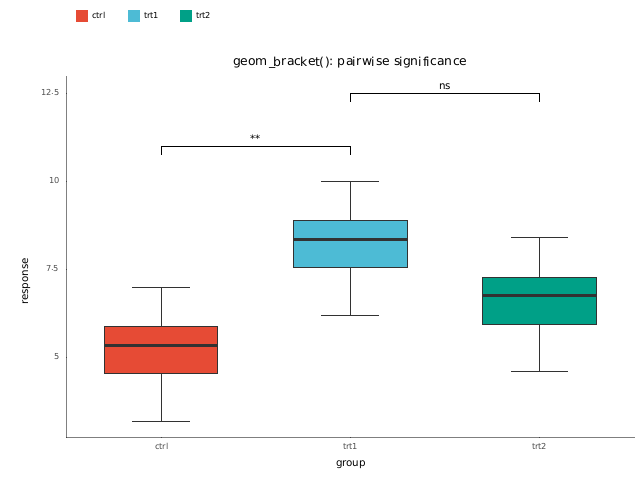
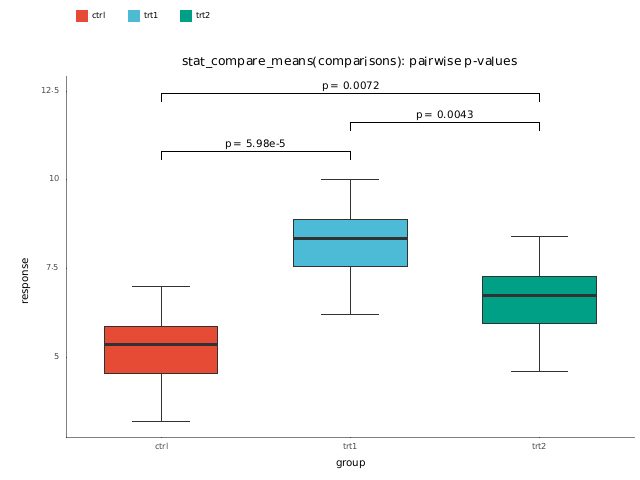
ggpubr: auto-pairwise brackets + PNG output for ggarrange
- stat_compare_means_pairwise(comparisons): for each (a, b) pair, run a
  two-sample test (Wilcoxon by default, or Welch t via _with) on the
  plot's y-values, format the p-value, and stack a labelled geom_bracket
  above the data. Reads the plot's x/y mapping + data; positions brackets
  automatically. Backed by anofox-statistics (pairwise_p helper).
- ggarrange_png / ggarrange_save_png: rasterise each plot (plotters bitmap)
  and composite into one PNG grid via the image crate — no external
  rasteriser needed (non-wasm).

Gallery now shows real pairwise p-values (brackets.png) and generates the
arrange grid as native PNG (arrange.png) directly.

diff --git a/src/plot.rs b/src/plot.rs
@@ -1,7 +1,7 @@
 #[cfg(not(target_arch = "wasm32"))]
 use plotters::prelude::IntoDrawingArea;
 
-use crate::aes::Aes;
+use crate::aes::{Aes, Aesthetic};
 use crate::annotate::Annotation;
 use crate::build::PlotBuilder;
 use crate::coord::cartesian::CoordCartesian;
@@ -247,6 +247,107 @@ impl GGPlot {
         stat: crate::stat::compare_means::StatCompareMeans,
     ) -> Self {
         self.geom_text().stat(stat)
+    }
+
+    /// Auto-draw pairwise significance brackets (`ggpubr::stat_compare_means`
+    /// with `comparisons`). For each `(group_a, group_b)` pair it runs a
+    /// two-sample test (Wilcoxon by default) on the plot's y-values, formats the
+    /// p-value, and stacks a labelled [`geom_bracket`](GGPlot::geom_bracket)
+    /// above the data. Uses the plot's x/y mapping and data.
+    #[cfg(feature = "ggpubr")]
+    pub fn stat_compare_means_pairwise(self, comparisons: &[(&str, &str)]) -> Self {
+        self.stat_compare_means_pairwise_with(
+            crate::stat::compare_means::CompareMethod::Auto,
+            comparisons,
+        )
+    }
+
+    /// [`stat_compare_means_pairwise`](GGPlot::stat_compare_means_pairwise) with
+    /// an explicit test method.
+    #[cfg(feature = "ggpubr")]
+    pub fn stat_compare_means_pairwise_with(
+        self,
+        method: crate::stat::compare_means::CompareMethod,
+        comparisons: &[(&str, &str)],
+    ) -> Self {
+        // Resolve the x/y source columns from the plot mapping + data.
+        let col_for = |a: Aesthetic| {
+            self.mapping
+                .mappings
+                .iter()
+                .find(|m| m.aesthetic == a)
+                .map(|m| m.column.clone())
+        };
+        let (xcol, ycol) = match (col_for(Aesthetic::X), col_for(Aesthetic::Y)) {
+            (Some(x), Some(y)) => (x, y),
+            _ => return self,
+        };
+        let (xc, yc) = match (self.data.column(&xcol), self.data.column(&ycol)) {
+            (Some(x), Some(y)) => (x, y),
+            _ => return self,
+        };
+
+        // Bucket y by x category (first-seen order) and find the data range.
+        let mut groups: Vec<(String, Vec<f64>)> = Vec::new();
+        let mut ymax = f64::NEG_INFINITY;
+        let mut ymin = f64::INFINITY;
+        for (xv, yv) in xc.iter().zip(yc.iter()) {
+            let y = match yv.as_f64() {
+                Some(y) if y.is_finite() => y,
+                _ => continue,
+            };
+            ymax = ymax.max(y);
+            ymin = ymin.min(y);
+            let key = xv.to_group_key();
+            if let Some(g) = groups.iter_mut().find(|(k, _)| *k == key) {
+                g.1.push(y);
+            } else {
+                groups.push((key, vec![y]));
+            }
+        }
+        if groups.len() < 2 {
+            return self;
+        }
+        let step = if ymax > ymin {
+            (ymax - ymin) * 0.12
+        } else {
+            1.0
+        };
+
+        // One stacked bracket per resolvable comparison.
+        let (mut xmin_v, mut xmax_v, mut y_v, mut label_v) =
+            (Vec::new(), Vec::new(), Vec::new(), Vec::new());
+        let mut placed = 0usize;
+        for (a, b) in comparisons {
+            let ga = groups.iter().find(|(k, _)| k == a).map(|g| &g.1);
+            let gb = groups.iter().find(|(k, _)| k == b).map(|g| &g.1);
+            let (ga, gb) = match (ga, gb) {
+                (Some(x), Some(y)) if x.len() >= 2 && y.len() >= 2 => (x, y),
+                _ => continue,
+            };
+            let p = match crate::stat::compare_means::pairwise_p(method, ga, gb) {
+                Some(p) => p,
+                None => continue,
+            };
+            xmin_v.push(Value::Str((*a).to_string()));
+            xmax_v.push(Value::Str((*b).to_string()));
+            y_v.push(Value::Float(ymax + step * (placed as f64 + 1.0)));
+            label_v.push(Value::Str(crate::stat::cor::format_p_value(p)));
+            placed += 1;
+        }
+        if xmin_v.is_empty() {
+            return self;
+        }
+
+        let data = vec![
+            ("xmin".to_string(), xmin_v),
+            ("xmax".to_string(), xmax_v),
+            ("y".to_string(), y_v),
+            ("label".to_string(), label_v),
+        ];
+        self.add_geom(crate::geom::bracket::GeomBracket::default())
+            .layer_data(data)
+            .layer_aes(Aes::new().xmin("xmin").xmax("xmax").y("y").label("label"))
     }
 
     /// Draw a significance bracket over the plot (`ggpubr::geom_bracket`): a bar

diff --git a/src/ggpubr.rs b/src/ggpubr.rs
@@ -106,6 +106,54 @@ pub fn ggarrange_save(
     std::fs::write(path, svg).map_err(GGError::Io)
 }
 
+/// [`ggarrange`] rendered as a single PNG. Each plot is rasterised on its own
+/// (via the plotters bitmap backend) and composited into an `ncol`-wide grid.
+/// Returns the encoded PNG bytes.
+#[cfg(not(target_arch = "wasm32"))]
+pub fn ggarrange_png(
+    plots: Vec<GGPlot>,
+    ncol: usize,
+    cell_w: u32,
+    cell_h: u32,
+) -> Result<Vec<u8>, GGError> {
+    use crate::render::RenderError;
+    let n = plots.len();
+    let ncol = ncol.max(1);
+    let nrow = n.div_ceil(ncol).max(1);
+    let mut canvas = image::RgbaImage::from_pixel(
+        ncol as u32 * cell_w,
+        nrow as u32 * cell_h,
+        image::Rgba([255, 255, 255, 255]),
+    );
+    for (i, plot) in plots.into_iter().enumerate() {
+        let png = plot.render_png_with_size(cell_w, cell_h)?;
+        let cell = image::load_from_memory(&png)
+            .map_err(|e| GGError::Render(RenderError::BackendError(format!("decode: {e}"))))?
+            .to_rgba8();
+        let x = ((i % ncol) as u32 * cell_w) as i64;
+        let y = ((i / ncol) as u32 * cell_h) as i64;
+        image::imageops::overlay(&mut canvas, &cell, x, y);
+    }
+    let mut out = std::io::Cursor::new(Vec::new());
+    canvas
+        .write_to(&mut out, image::ImageOutputFormat::Png)
+        .map_err(|e| GGError::Render(RenderError::BackendError(format!("encode: {e}"))))?;
+    Ok(out.into_inner())
+}
+
+/// [`ggarrange_png`] that writes the composited PNG to `path`.
+#[cfg(not(target_arch = "wasm32"))]
+pub fn ggarrange_save_png(
+    plots: Vec<GGPlot>,
+    ncol: usize,
+    cell_w: u32,
+    cell_h: u32,
+    path: &str,
+) -> Result<(), GGError> {
+    let png = ggarrange_png(plots, ncol, cell_w, cell_h)?;
+    std::fs::write(path, png).map_err(GGError::Io)
+}
+
 #[cfg(test)]
 mod tests {
     use super::*;
@@ -151,6 +199,20 @@ mod tests {
         assert!(svg.contains("x=\"300\" y=\"0\""));
         assert!(svg.contains("x=\"0\" y=\"220\""));
         assert!(svg.contains("x=\"300\" y=\"220\""));
+    }
+
+    #[test]
+    #[cfg(not(target_arch = "wasm32"))]
+    fn ggarrange_png_composes_a_grid() {
+        let plots = vec![
+            ggscatter(xy(), "x", "y", None),
+            ggline(xy(), "x", "y", None),
+            ggboxplot(xy(), "g", "y", Some("g")),
+        ];
+        let png = ggarrange_png(plots, 2, 200, 160).expect("png");
+        // Valid PNG signature and non-trivial size.
+        assert_eq!(&png[..8], &[0x89, b'P', b'N', b'G', 0x0d, 0x0a, 0x1a, 0x0a]);
+        assert!(png.len() > 1000);
     }
 
     #[test]

diff --git a/src/stat/compare_means.rs b/src/stat/compare_means.rs
@@ -179,6 +179,26 @@ fn run_test(method: CompareMethod, groups: &[&[f64]]) -> (&'static str, Option<f
     }
 }
 
+/// Two-sample p-value for one pairwise comparison, honouring `method`: `TTest`
+/// uses a Welch t-test; every other method (incl. `Auto`/`Kruskal`/`Anova`,
+/// which aren't pairwise) falls back to the Wilcoxon rank-sum (Mann-Whitney U),
+/// matching ggpubr's default pairwise test.
+pub(crate) fn pairwise_p(method: CompareMethod, a: &[f64], b: &[f64]) -> Option<f64> {
+    use anofox_statistics::{Alternative, TTestKind};
+    match method {
+        CompareMethod::TTest => {
+            anofox_statistics::t_test(a, b, TTestKind::Welch, Alternative::TwoSided, 0.0, None)
+                .ok()
+                .map(|r| r.p_value)
+        }
+        _ => {
+            anofox_statistics::mann_whitney_u(a, b, Alternative::TwoSided, true, false, None, None)
+                .ok()
+                .map(|r| r.p_value)
+        }
+    }
+}
+
 #[cfg(test)]
 mod tests {
     use super::*;

diff --git a/tests/ggpubr_compare_means.rs b/tests/ggpubr_compare_means.rs
@@ -50,6 +50,23 @@ fn three_groups_render_kruskal_label() {
 }
 
 #[test]
+fn pairwise_brackets_render_p_values() {
+    // ggpubr `comparisons`: two stacked brackets, each labelled with its p-value.
+    let svg = GGPlot::new(grouped(&[("a", 0.0), ("b", 6.0), ("c", 3.0)]))
+        .aes(Aes::new().x("grp").y("val"))
+        .geom_boxplot()
+        .stat_compare_means_pairwise(&[("a", "b"), ("b", "c")])
+        .render_svg()
+        .expect("render");
+    // Each bracket carries a p-value label ("p = .." or the "< 2.2e-16" floor).
+    let hits = svg.matches("p =").count() + svg.matches("p &lt;").count();
+    assert!(
+        hits >= 2,
+        "expected two pairwise p-value labels, got {hits}"
+    );
+}
+
+#[test]
 fn method_override_uses_anova() {
     let stat = StatCompareMeans::new(CompareMethod::Anova);
     let svg = GGPlot::new(grouped(&[("a", 0.0), ("b", 5.0), ("c", 12.0)]))

diff --git a/examples/ggpubr_gallery.rs b/examples/ggpubr_gallery.rs
@@ -178,7 +178,8 @@ fn arrange_demo() -> Result<(), Box<dyn std::error::Error>> {
         .title("boxplot"),
         ggdensity(xy(), "y", None).title("density"),
     ];
-    ggarrange_save(plots, 2, 340, 250, &out("arrange").replace(".png", ".svg"))?;
+    // Native PNG output — no external rasteriser needed.
+    ggarrange_save_png(plots, 2, 340, 250, &out("arrange"))?;
     Ok(())
 }
 
@@ -188,12 +189,10 @@ fn brackets_demo() -> Result<(), Box<dyn std::error::Error>> {
     GGPlot::new(vec![("grp".to_string(), xs), ("val".to_string(), ys)])
         .aes(Aes::new().x("grp").y("val").fill("grp"))
         .geom_boxplot()
-        .geom_bracket_many(
-            GeomBracket::default(),
-            &[("ctrl", "trt1", 11.0, "**"), ("trt1", "trt2", 12.5, "ns")],
-        )
+        // Auto pairwise brackets: each labelled with its computed Wilcoxon p-value.
+        .stat_compare_means_pairwise(&[("ctrl", "trt1"), ("trt1", "trt2"), ("ctrl", "trt2")])
         .scale_fill_brewer(PaletteName::Npg)
-        .title("geom_bracket(): pairwise significance")
+        .title("stat_compare_means(comparisons): pairwise p-values")
         .xlab("group")
         .ylab("response")
         .theme_pubr()

diff --git a/src/prelude.rs b/src/prelude.rs
@@ -44,6 +44,8 @@ pub use crate::geom::violin::GeomViolin;
 pub use crate::ggpubr::{
     ggarrange, ggarrange_save, ggboxplot, ggdensity, gghistogram, ggline, ggscatter, ggviolin,
 };
+#[cfg(not(target_arch = "wasm32"))]
+pub use crate::ggpubr::{ggarrange_png, ggarrange_save_png};
 pub use crate::guide::config::GuideLegend;
 pub use crate::plot::{GGError, GGPlot, Labels};
 pub use crate::position::dodge::PositionDodge;

diff --git a/README.md b/README.md
@@ -154,8 +154,8 @@ the last two need the `regression` / `ggpubr` features. Regenerate with
       <sub>Group p-value · <code>stat_compare_means</code> <sub>(feature <code>ggpubr</code>)</sub></sub>
     </td>
     <td align="center">
-      <img src="assets/gallery/brackets.png" width="260" alt="geom_bracket"><br>
-      <sub>Significance brackets · <code>geom_bracket</code></sub>
+      <img src="assets/gallery/brackets.png" width="260" alt="pairwise brackets"><br>
+      <sub>Pairwise brackets · <code>stat_compare_means(comparisons)</code> / <code>geom_bracket</code></sub>
     </td>
   </tr>
   <tr>